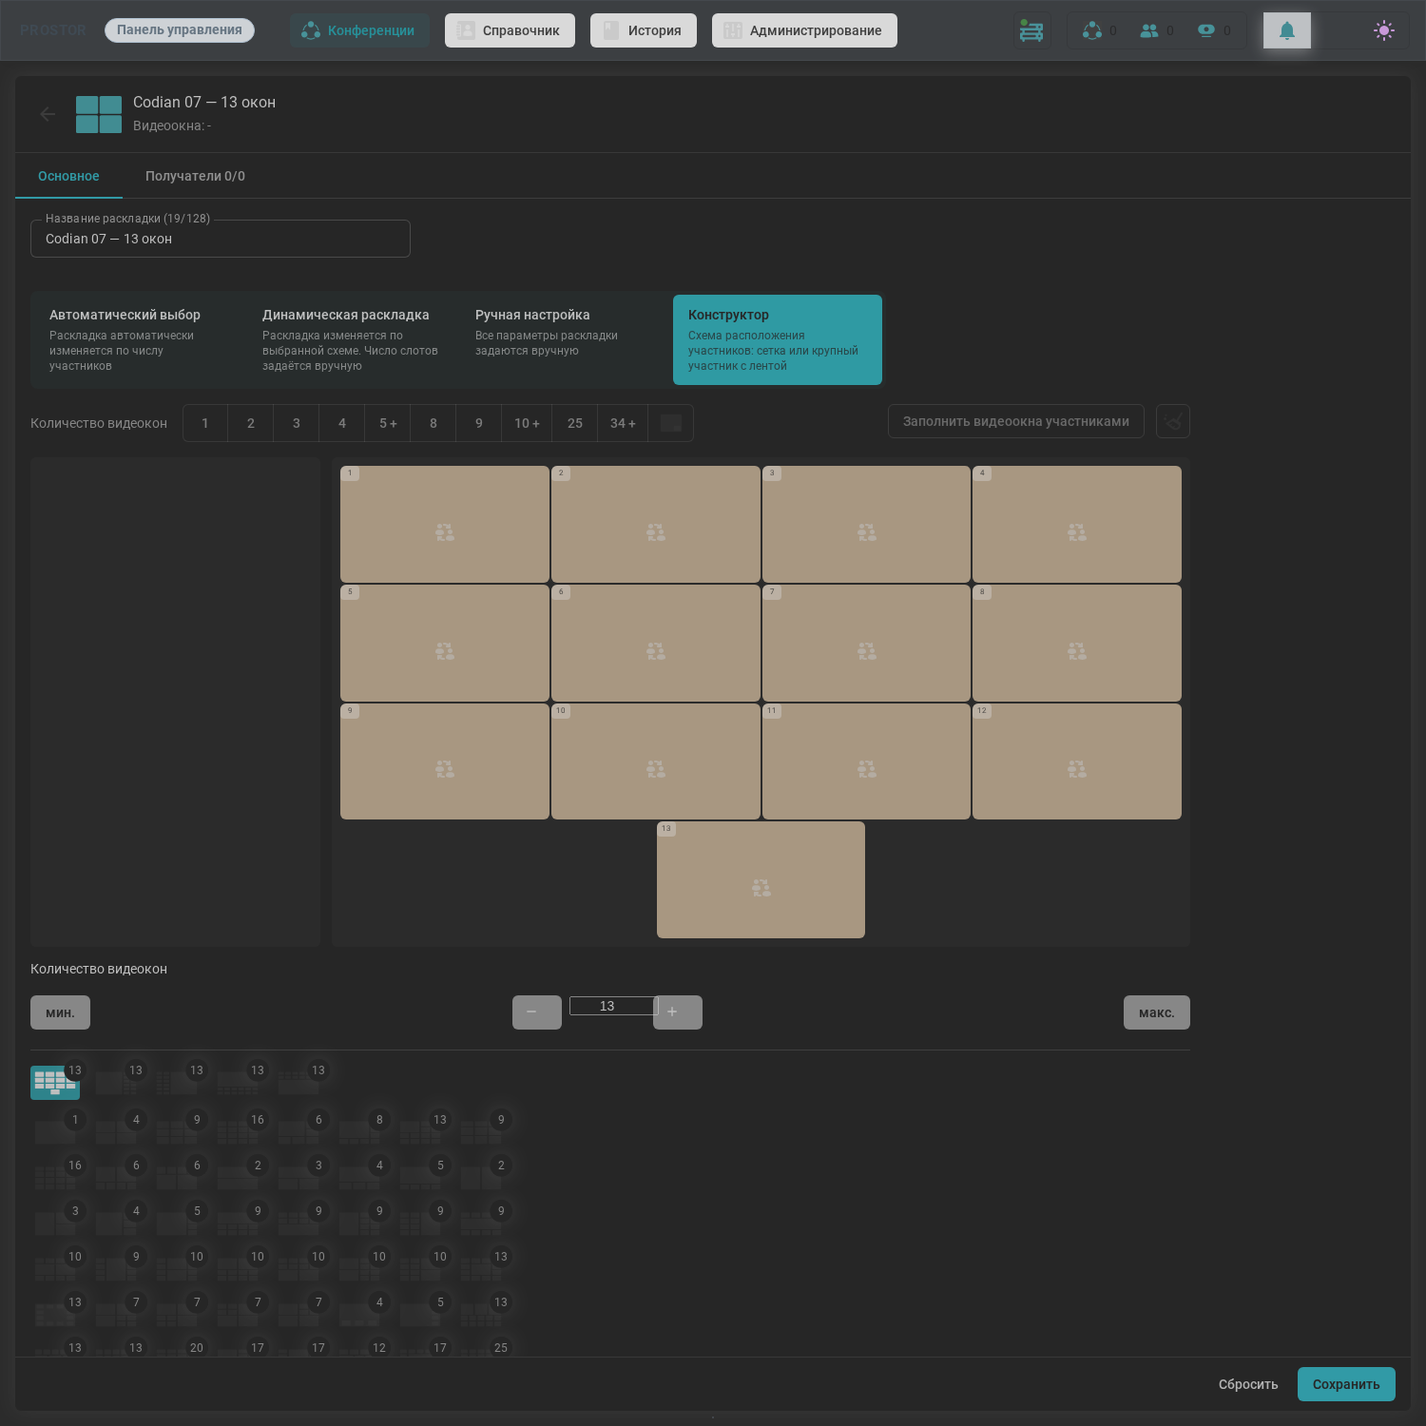
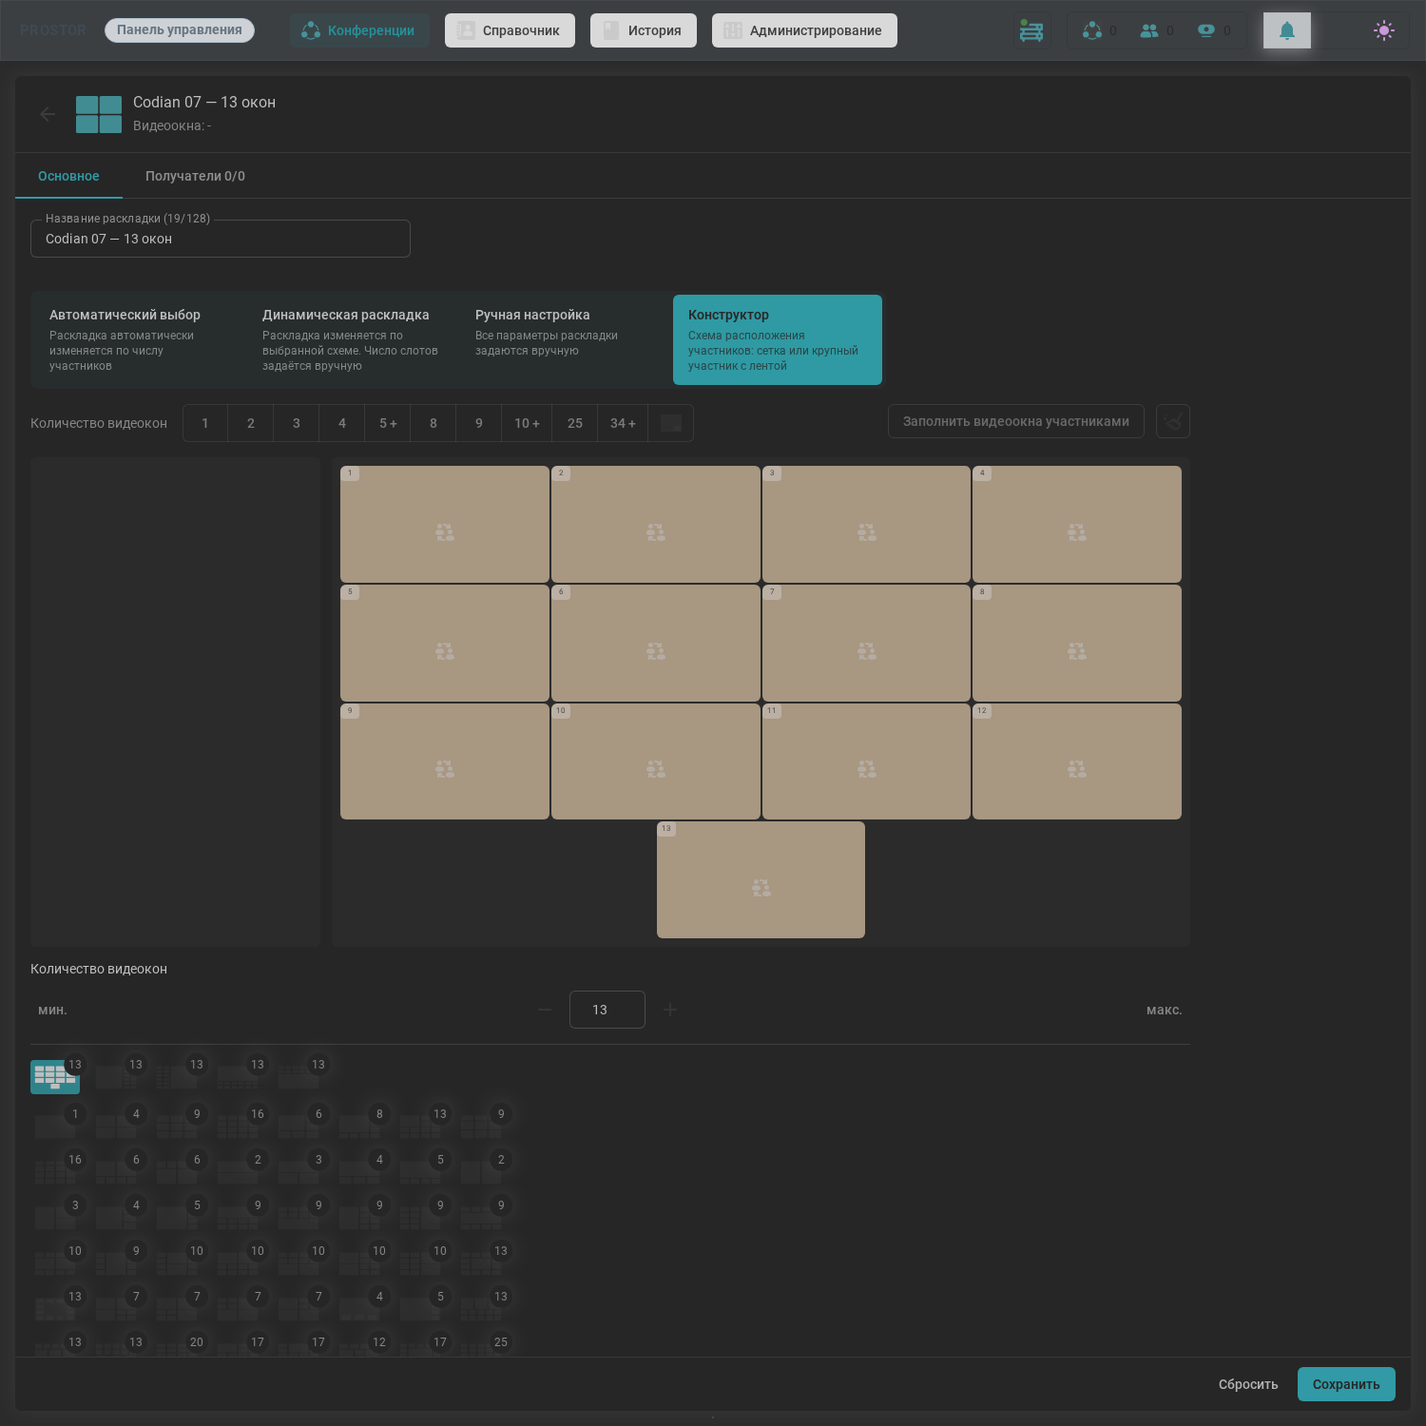
R6 T2.9: одно состояние adopt, guard N=0, active тайл после Codian, честный serverCount
По ревью T2 на 4c36a6c (9/10, P0/P1 нет):
- initialAdopt удалён: pendingAdopt — единственный источник «adopt не выполнен»;
  reAdopt проверяет только его
- adoptNow не выбирает vks_*_0: guard startCount>0 (в т.ч. async-ветка)
- fallback 400 мс не теряет N: сам выбирает зафиксированное N, а adoptTarget
  возвращает его, если вендор выставит preset_* позже таймера
- после ухода из конструктора в Codian/manual вендорский тайл «Ручная
  настройка» снова active (раньше не был active ни один режим)
- loadLayoutCount читал video_layout вместо video_layout.payload → serverCount
  всегда 0; теперь N с сервера реальный; после вендорского «Сохранить»
  кэш N инвалидируется через fetch/XHR-обёртки и клик по кнопке
- evidence перегенерировано: matrix с save/reopen vks_grid_13, type-default
  с явным кликом чипа (c2), auto-cycle c4=vks_grid_9, свежий скриншот
  t2-constructor-13.png; t13-keyboard-100-42.json перегенерирован
Гейты: MANIFEST 214/214, counter keyboard live 100/42 без потери фокуса.

Changed region(s): [[0.3373, 0.6747, 0.4907, 0.736], [0.0, 0.6747, 0.0613, 0.7973], [0.7667, 0.6747, 0.8587, 0.736]]

diff --git a/client/pnm-frontend/deployed/pnm/codian-layouts.js b/client/pnm-frontend/deployed/pnm/codian-layouts.js
@@ -101,12 +101,14 @@
 
   var constructorCount = 0;
   var constructorSide = 'grid'; // grid | l | r | t | b (последняя выбранная схема)
-  // Пока идёт первичный выбор после клика «Конструктор», reAdopt молчит: иначе
-  // он успевает принять вендорский preset_equal_25 и ставит 25 вместо исходного N.
-  var initialAdopt = false;
-  // Однократный отложенный выбор после переключения в ручной режим: выполняется
-  // из reAdopt, когда вендор выставил свой preset_* (событие, не таймер-гонка).
+  // Однократный отложенный выбор после переключения в ручной режим: пока он
+  // не null, reAdopt молчит (иначе принял бы вендорский preset_equal_25 и
+  // поставил 25 вместо исходного N). Выполняется из reAdopt, когда вендор
+  // выставил свой preset_*, или из страховочного таймера (медленный вендор).
   var pendingAdopt = null;
+  // Исходное N на случай, если вендор выставит preset_* уже после страховочного
+  // таймера: следующий preset_* обязан вернуть это N, а не текущие 25.
+  var adoptTarget = 0;
   var identityName = ''; // displayName серверной раскладки: вендор может обнулить
   var constructorState = 'idle'; // idle | loading | ready | failed
   var constructorSlots = Object.create(null);
@@ -153,7 +155,10 @@
     var result = request('/api/v3/ui/conferences/' + match[1] + '/video_layouts/' + match[2]);
     if (!result) return;
     result.then(function (data) {
-      var payload = (data && (data.video_layout || data.payload)) || data || {};
+      // GET отдаёт { video_layout: { payload: {...} } }; старый разбор читал
+      // video_layout как payload и всегда получал 0.
+      var layout = (data && data.video_layout) || data || {};
+      var payload = layout.payload || layout;
       var count = Array.isArray(payload.slots) ? payload.slots.length : 0;
       if (!(count > 0)) count = Number(payload.size) || 0;
       if (count > 0) serverCount = count;
@@ -206,11 +211,13 @@
       modeTileEngaged = true;
       return;
     }
-    if (initialAdopt) {
-      if (pendingAdopt && preset.indexOf('preset_') === 0) {
+    // Пока идёт первичный выбор — ждём, пока вендор выставит свой preset_*.
+    // Этот же флаг (pendingAdopt !== null) — единственный источник состояния
+    // «adopt ещё не выполнен» (отдельного initialAdopt нет).
+    if (pendingAdopt) {
+      if (preset.indexOf('preset_') === 0) {
         var runAdopt = pendingAdopt;
         pendingAdopt = null;
-        initialAdopt = false;
         runAdopt();
       }
       return;
@@ -218,7 +225,8 @@
     if (!modeTileEngaged) return;
     // Только вендорские preset_* — Codian-карточки не перехватываем.
     if (preset.indexOf('preset_') !== 0) return;
-    var count = currentCount();
+    var count = adoptTarget > 0 ? adoptTarget : currentCount();
+    adoptTarget = 0;
     if (!(count > 0)) return;
     // Без дедупликации: повторный клик того же чипа тоже обязан вернуть vks_*
     // (после adopt preset становится vks_*, и следующий subscribe выходит выше).
@@ -505,8 +513,8 @@
     // Явный выбор Codian-схемы выводит из конструктора: иначе reAdopt вернул бы
     // наш vks_* и карточка каталога осталась бы без active и без сохранения.
     modeTileEngaged = false;
-    initialAdopt = false;
     pendingAdopt = null;
+    adoptTarget = 0;
     syncModeTile();
     syncActive();
     subscribe(editor);
@@ -742,30 +750,32 @@
       // не придёт — ставим нашу схему сразу; в остальных режимах ждём
       // вендорский preset_* после переключения.
       if (current.mode !== 'manual' && currentPreset.indexOf('preset_') !== 0 && currentPreset.indexOf('vks_') !== 0) return;
-      initialAdopt = false;
+      pendingAdopt = null;
+      adoptTarget = 0;
       rememberIdentity(current);
       restoreIdentity(editor);
       selectConstructor('vks_' + (side === 'grid' ? 'grid' : 'pin_' + side) + '_' + count);
     }
     if (value.mode !== 'manual') {
       // Вендор после mode='manual' асинхронно ставит preset_equal_25; пока он
-      // не сделал этого, reAdopt молчит (initialAdopt), иначе примет 25.
-      initialAdopt = true;
+      // не сделал этого, reAdopt молчит (pendingAdopt), иначе примет 25.
       pendingAdopt = apply;
+      adoptTarget = count;
       try {
         editor.mode = 'manual';
       } catch (e) {
-        initialAdopt = false;
         pendingAdopt = null;
+        adoptTarget = 0;
         console.warn('codian-layouts: не удалось переключить режим на manual', e);
         return;
       }
       syncModeTile();
       schedule();
       setTimeout(function () {
-        if (!initialAdopt) return;
-        initialAdopt = false;
+        var run = pendingAdopt;
+        if (!run) return;
         pendingAdopt = null;
+        run();
       }, 400);
       return;
     }
@@ -999,7 +1009,6 @@
       if (chip) startCount = parseInt(chip.textContent, 10) || 0;
     }
     if (!(startCount > 0)) startCount = Number(startValue.size) || 0;
-    initialAdopt = true;
     var startName = startValue.displayName || '';
     // Сохранённая pin-раскладка задаёт сторону конструктора после reopen.
     var savedSide = /^vks_pin_([lrtb])_/.exec(startPreset);
@@ -1021,7 +1030,11 @@
       return 'vks_' + (startSide === 'grid' ? 'grid' : 'pin_' + startSide) + '_';
     }
     function adoptNow() {
-      initialAdopt = false;
+      pendingAdopt = null;
+      adoptTarget = 0;
+      // N=0 (медленный/неудачный GET и нет числового хвоста) — остаёмся на
+      // вендорском preset, тихий vks_*_0 запрещён.
+      if (!(startCount > 0)) return;
       rememberIdentity(startValue);
       if (keepName) identityName = keepName;
       restoreIdentity(editor);
@@ -1030,24 +1043,28 @@
     // Уже ручной режим: вендорский сброс preset_equal_25 не произойдёт, а
     // текущий preset может быть codian_*/preset_equal_* — ставим сразу.
     if (startValue.mode === 'manual') {
-      if (startCount > 0) adoptNow();
-      else initialAdopt = false;
+      adoptNow();
       var manualSection = document.querySelector('[' + CONSTRUCTOR_ATTR + ']');
       if (manualSection && typeof manualSection.scrollIntoView === 'function') {
         manualSection.scrollIntoView({ block: 'nearest', behavior: 'smooth' });
       }
       return;
     }
-    // Вендор после mode='manual' асинхронно ставит preset_equal_25 (свой
-    // дефолт на 25 слотов). Ждём именно событие store (reAdopt), а не таймер:
-    // так нет гонки, а target-N уже зафиксирован в adoptNow.
+    if (!(startCount > 0)) return;
+    // Вендор после mode='manual' асинхронно ставит preset_equal_25 (дефолт на
+    // 25 слотов). Ждём preset_* в reAdopt (его вызывает и подписка store, и
+    // schedule() по MutationObserver после вендорских перерисовок) — таймер
+    // только страховка для нестандартного пути; target-N уже зафиксирован.
     pendingAdopt = adoptNow;
-    // Страховка: если вендор не сменил preset (нестандартный путь), снимаем
-    // заморозку, чтобы ручные чипы снова подхватывались.
+    adoptTarget = startCount;
     setTimeout(function () {
-      if (!initialAdopt) return;
-      initialAdopt = false;
+      // Вендор не успел за 400 мс: выбираем наше N сами, а adoptTarget
+      // заставит следующий preset_* (поздний сброс вендора) снова взять его,
+      // а не текущие 25.
+      var run = pendingAdopt;
+      if (!run) return;
       pendingAdopt = null;
+      run();
     }, 400);
     var section = document.querySelector('[' + CONSTRUCTOR_ATTR + ']');
     if (section && typeof section.scrollIntoView === 'function') {
@@ -1075,6 +1092,15 @@
       }
     } else {
       tile.classList.remove('layout-mode-selector-item--active');
+      // Ушли из конструктора в ручную/Codian-схему — вендорский тайл «Ручная
+      // настройка» обязан остаться active (иначе ни один режим не подсвечен).
+      if (mode === 'manual' && !document.querySelector('.layout-mode-selector-item--active')) {
+        var manual = document.querySelector('[data-qa="layout-mode-selector-manual"]');
+        if (manual) {
+          manual.classList.add('layout-mode-selector-item--active');
+          manual.setAttribute('aria-pressed', 'true');
+        }
+      }
     }
     tile.setAttribute('aria-pressed', active ? 'true' : 'false');
   }
@@ -1133,31 +1159,79 @@
   }
 
   /* После сохранения раскладки серверный payload меняется: сбрасываем кэш
-   * числа окон, иначе «Конструктор» после save+auto возьмёт старое N. */
+   * числа окон, иначе «Конструктор» после save+auto возьмёт старое N.
+   * Вендор сохраняет и через fetch, и через XHR (axios) — перехватываем оба. */
   function watchSaves() {
-    if (typeof window.fetch !== 'function' || window.fetch.__vksCodianWrapped) return;
-    var nativeFetch = window.fetch;
-    var wrapped = function (input, init) {
-      var result = nativeFetch.apply(this, arguments);
-      var url = typeof input === 'string' ? input : (input && input.url) || '';
-      var method = String((init && init.method) || 'GET').toUpperCase();
-      if (method !== 'GET' && /\/video_layouts\//.test(url) && !/calculate/.test(url) && result && result.then) {
-        result.then(function (response) {
-          if (response && response.ok) {
+    if (typeof window.fetch === 'function' && !window.fetch.__vksCodianWrapped) {
+      var nativeFetch = window.fetch;
+      var wrapped = function (input, init) {
+        var result = nativeFetch.apply(this, arguments);
+        var url = typeof input === 'string' ? input : (input && input.url) || '';
+        var method = String((init && init.method) || 'GET').toUpperCase();
+        if (method !== 'GET' && /\/video_layouts\//.test(url) && !/calculate/.test(url) && result && result.then) {
+          result.then(function (response) {
+            if (response && response.ok) {
+              serverCountKey = '';
+              schedule();
+            }
+          }, function () { /* ошибку покажет вендорский UI */ });
+        }
+        return result;
+      };
+      wrapped.__vksCodianWrapped = true;
+      window.fetch = wrapped;
+    }
+    var xhrProto = window.XMLHttpRequest && window.XMLHttpRequest.prototype;
+    if (!xhrProto || xhrProto.__vksCodianWrapped) return;
+    var nativeOpen = xhrProto.open;
+    var nativeSend = xhrProto.send;
+    xhrProto.open = function (method, url) {
+      this.__vksCodianMethod = String(method || 'GET').toUpperCase();
+      this.__vksCodianUrl = String(url || '');
+      return nativeOpen.apply(this, arguments);
+    };
+    xhrProto.send = function () {
+      var xhr = this;
+      var method = xhr.__vksCodianMethod;
+      var url = xhr.__vksCodianUrl || '';
+      if (method !== 'GET' && /\/video_layouts\//.test(url) && !/calculate/.test(url)) {
+        xhr.addEventListener('load', function () {
+          if (xhr.status >= 200 && xhr.status < 300) {
             serverCountKey = '';
             schedule();
           }
-        }, function () { /* ошибку покажет вендорский UI */ });
+        });
       }
-      return result;
+      return nativeSend.apply(this, arguments);
     };
-    wrapped.__vksCodianWrapped = true;
-    window.fetch = wrapped;
+    xhrProto.__vksCodianWrapped = true;
+  }
+
+  /* Вендорский транспорт сохранения может быть не fetch/XHR-обёрткой (axios
+   * со своим адаптером, service-worker): дополнительно ловим сам клик по
+   * «Сохранить» и через паузу перечитываем N с сервера. */
+  function watchSaveButton() {
+    document.addEventListener(
+      'click',
+      function (event) {
+        var target = event.target;
+        var button = target && target.closest ? target.closest('button') : null;
+        if (!button || !/Сохранить/.test(button.textContent || '')) return;
+        var retry = function () {
+          serverCountKey = '';
+          loadLayoutCount();
+        };
+        window.setTimeout(retry, 1500);
+        window.setTimeout(retry, 3000);
+      },
+      true,
+    );
   }
 
   function start() {
     if (observer) return;
     watchSaves();
+    watchSaveButton();
     observer = new MutationObserver(function () { schedule(); });
     observer.observe(document.documentElement, { childList: true, subtree: true });
     schedule();

diff --git a/docs/implementation/ROUND6_MASTER_TASKS_2026-10-23.md b/docs/implementation/ROUND6_MASTER_TASKS_2026-10-23.md
@@ -239,5 +239,16 @@ preset на вендорский — зафиксировать поведени
   Codian после конструктора; auto→ctor берёт сохранённое N),
   `t2-final-reopen-tile-chip25.json` (reopen vks_grid_13→тайл→чип25→
   PATCH vks_grid_25→reopen), `t2-constructor-13.png` (13 окон, бейджи 13,
-  счётчик 13). MANIFEST 214/214.
+  счётчик 13). Ревью T2 на `4c36a6c`: 9/10, P0/P1 нет, P2: adopt без guard
+  N>0/400-мс fallback, дублирование initialAdopt/pendingAdopt, после Codian
+  нет active mode-тайла, невоспроизводимый шаг в evidence, T2 смешан с T13.
+  Исправлено (T2.9): `initialAdopt` удалён (pendingAdopt — единственный
+  источник), guard `startCount>0` в adoptNow, fallback 400 мс сам выбирает N
+  и `adoptTarget` возвращает его на позднем вендорском сбросе; после ухода
+  из конструктора вендорский тайл «Ручная настройка» снова active; save/auto
+  берут актуальное N (баг разбора `video_layout.payload` в loadLayoutCount:
+  читался внешний объект, serverCount всегда 0; плюс инвалидация после
+  вендорского «Сохранить» — fetch/XHR/клик); evidence перегенерировано
+  (save/reopen vks_grid_13 в matrix, c2 с кликом чипа, c4=vks_grid_9).
+  MANIFEST 214/214. Осталось: финальное ревью T2.9/T13.1 на коммитах.
 - [ ] T2 … T12
